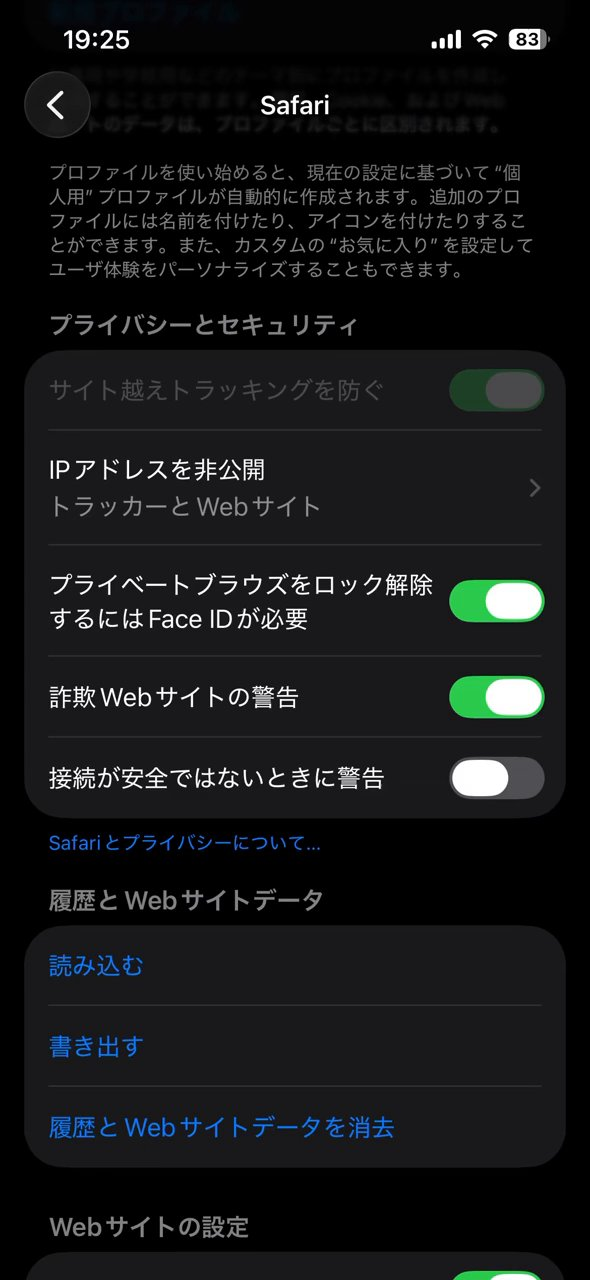
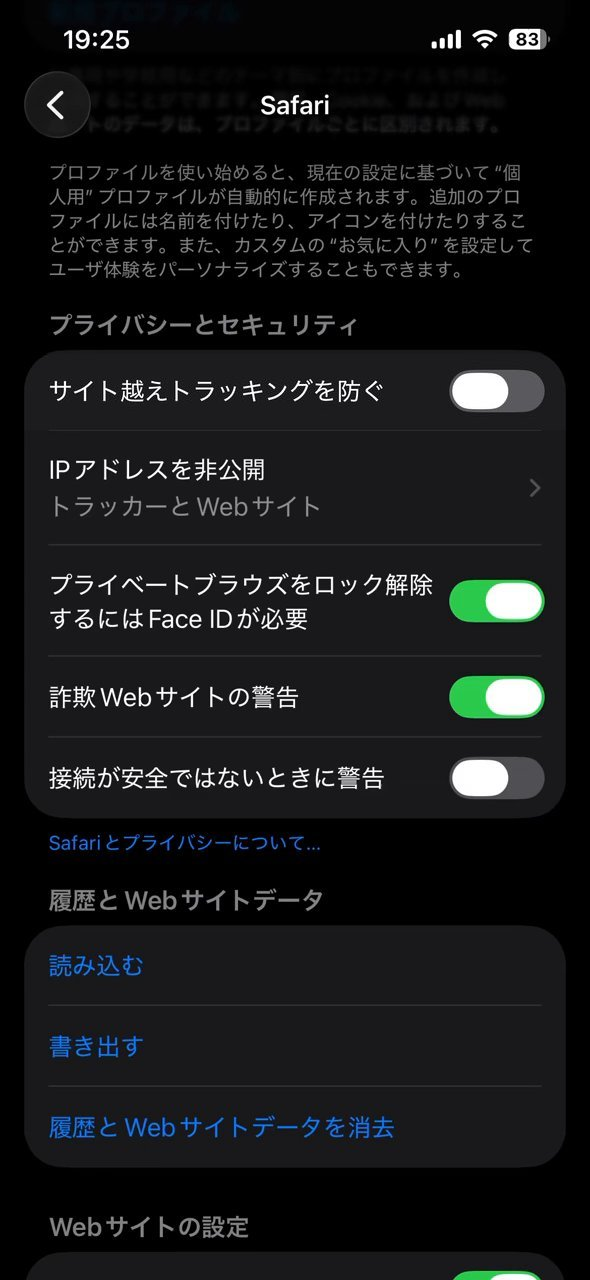
Show tracking off on the IP step, add a recheck screen, tap clear-history on it

Changed region(s): [[0.7627, 0.2812, 0.9458, 0.3438], [0.3356, 0.2812, 0.6407, 0.3125], [0.0915, 0.2812, 0.3051, 0.3125]]

diff --git a/stages.js b/stages.js
@@ -44,9 +44,9 @@ const STAGES = [
       { type: 'tap', img: 'safari-ip1', text: '「IPアドレスを非公開」をタップ', rect: [24, 440, 546, 92] },
       { type: 'tap', img: 'safari-ip2', after: 'safari-ip3', text: '「オフ」をタップしよう', rect: [24, 350, 546, 58] },
       { type: 'tap', img: 'safari-ip3', text: '左上の戻るボタンをタップして、元の画面に戻ろう', rect: [22, 78, 66, 56] },
-      { type: 'scroll', img: 'safari-680', seq: ['hist', 13], len: 0.5, text: 'さらに下にスクロールして「履歴とWebサイトデータを消去」を探してタップしよう',
-        target: { from: 1, ys: [1084,1049,951,905,806,715,677,643,643,615,576,572,572] } },
-      { type: 'tap', img: 'safari-680', text: '②「履歴とWebサイトデータを消去」をタップ', rect: [22, 572, 546, 82] },
+      { type: 'info', img: 'safari-ip4', card: 'bottom', next: '確認した', marks: [[25, 425, 540, 75], [25, 505, 540, 76]],
+        text: '「サイト越えトラッキングを防ぐ」と「IPアドレスを非公開」がオフになっていることを確認しよう' },
+      { type: 'tap', img: 'safari-ip4', text: 'そのまま「履歴とWebサイトデータを消去」をタップ', rect: [25, 1128, 540, 72] },
       { type: 'tap', img: 'safari-990', text: '「すべての履歴」が選ばれているのを確認して、「履歴を消去」をタップ', rect: [30, 1110, 530, 84], marks: [[38, 798, 515, 77]],
         traps: [{ rect: [520, 420, 70, 70], msg: '閉じないで、消去まで進もう' }] },
       { type: 'quiz', img: 'safari-1130', text: '②の「履歴の消去」は、いつやる？',

diff --git a/tests/player.test.js b/tests/player.test.js
@@ -118,17 +118,17 @@ for (const stepIndex of STAGES_SCROLL_TARGETS) {
   assert.equal(run('si'), stepIndex + 2);
 }
 // 指を上下に動かして元の位置で離しても、途中タップにはしない。
-const histStep = run("STAGES[0].steps.findIndex(s => s.seq && s.seq[0] === 'hist')");
-openStep(0, histStep);
+const dragStep = STAGES_SCROLL_TARGETS[0];
+openStep(0, dragStep);
 const drag = { clientX: 150, clientY: 560, target: node('shot') };
 node('shot').events.pointerdown(drag);
 node('shot').events.pointermove({ ...drag, clientY: 520 });
-assert.equal(node('swipe').style.display, 'none'); // この場面は最初からタップ場所が見えている
 node('shot').events.pointermove(drag);
 node('shot').events.pointerup(drag);
-assert.equal(run('si'), histStep); assert.equal(run('stepMisses'), 0);
+assert.equal(run('si'), dragStep); assert.equal(run('stepMisses'), 0);
 // 途中タップの成功演出も、中断・再開で無効になる。
-tap([22, 1084, 546, 82]); node('quit').onclick(); run('start(0)'); flush();
+const dragS = run(`stage.steps[${dragStep}]`), dragNext = run(`stage.steps[${dragStep + 1}]`);
+frame(dragS.target.from); tap(targetAt(dragS, dragNext, dragS.target.from)); node('quit').onclick(); run('start(0)'); flush();
 assert.equal(run('si'), 0);
 console.log('PASS scroll target taps, boundaries, guides, drag suppression, and legacy completion');
 
